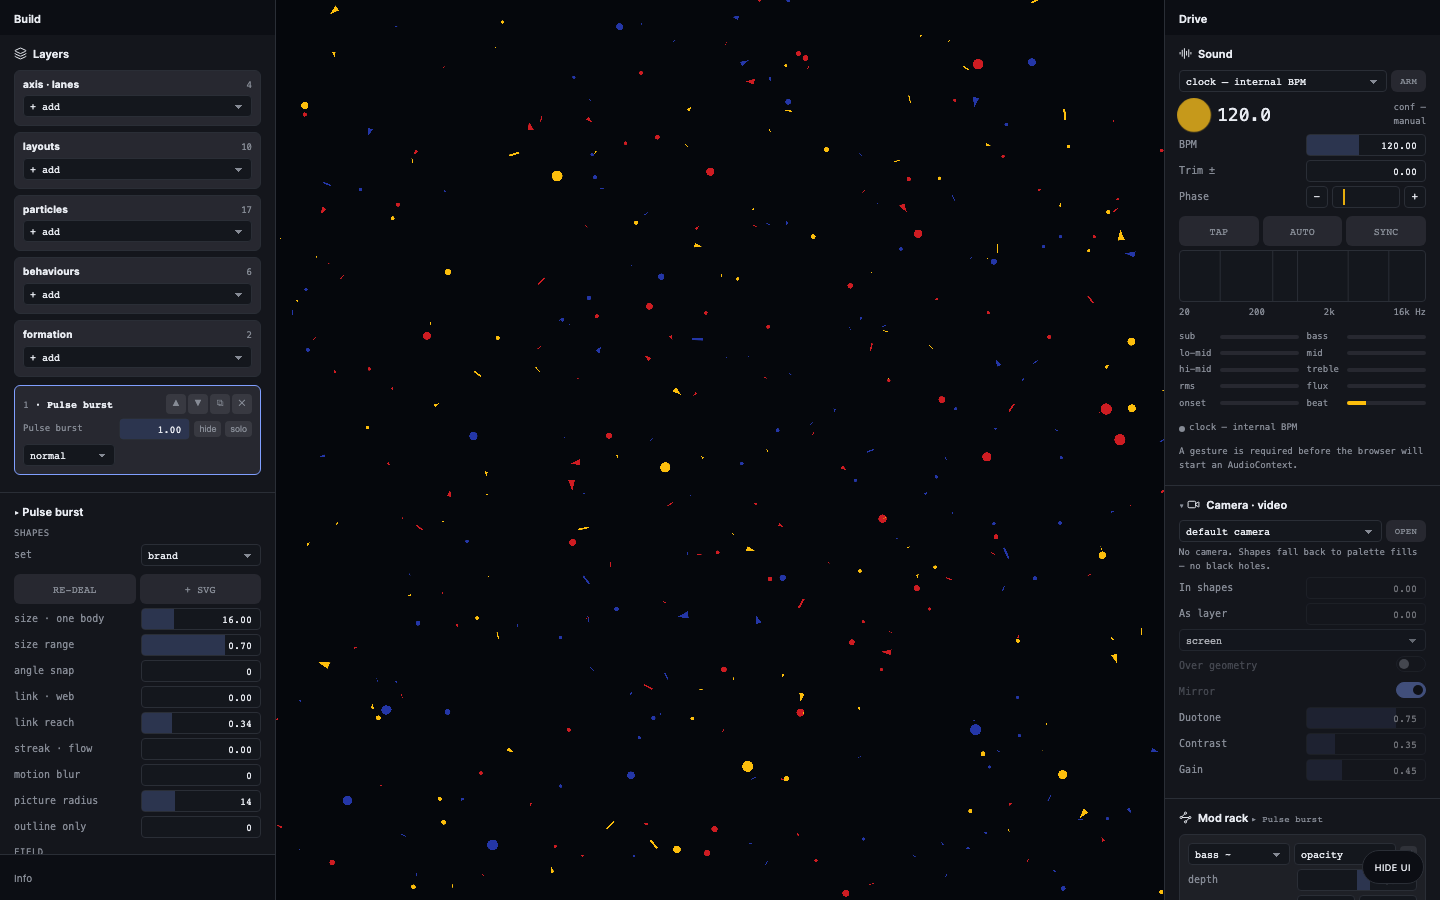
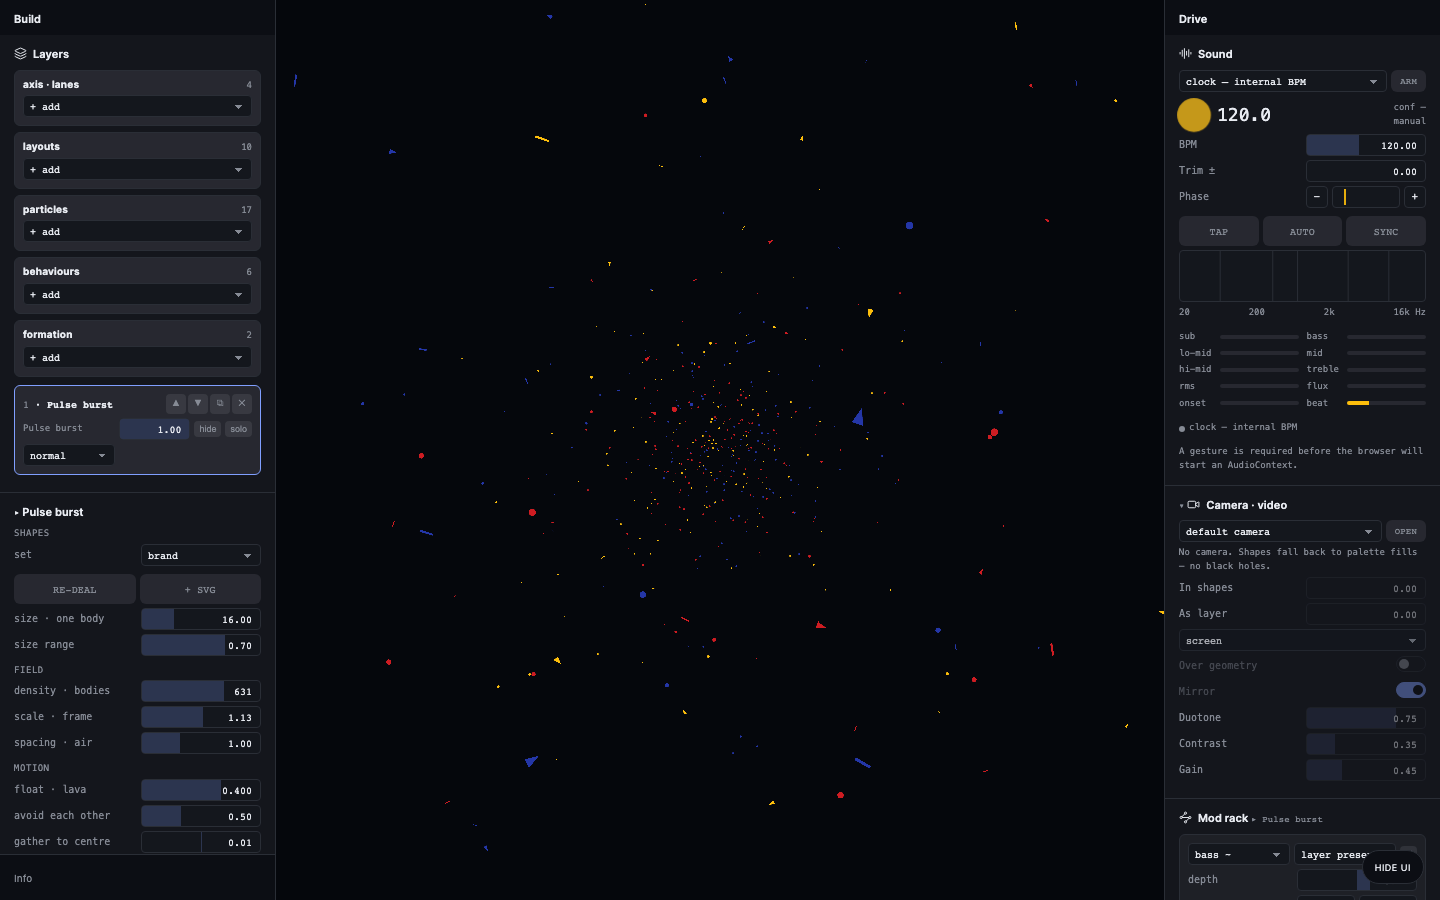
Ракурс и три строки маппинга Роба стали дефолтом

Changed region(s): [[0.0938, 0.7467, 0.1875, 0.9333], [0.0, 0.7467, 0.0625, 0.9644], [0.9062, 0.9333, 0.9375, 0.9644]]

diff --git a/index.html b/index.html
@@ -4906,18 +4906,23 @@ buildRamp(); buildStops(); rebuildPool(); rebuildTextures();
   Object.assign(L.phys,{ on:1, dim3:0, follow:2.2, collide:0.5, radius:0.13,
                          swirl:0.4, gravity:0.04, attract:0.01, flock:0.46, damp:0.93 });
   Object.assign(L.params,{ spread:1.85, dance:0.72, amplitude:1, frequency:1, twist:1, lanes:7 });
-  /* his framing: a slight tilt and turn, still orthographic — depth without warp */
-  Object.assign(state.cam,{ persp:0, zoom:1, tilt:-0.449, spin:0, yaw:0.272 });
-  /* the matrix he tuned: nothing moves in silence, everything answers the band it is on.
-     `size` on the fast bass envelope is the pulse; `dance` on flux is the build-up. */
+  /* his framing, 2026-07-19: «вот эта перспектива нам подходит». Depth is ON now (0.94),
+     the scene sits far back (zoom 0.2) and turns slowly by itself — the flat default was
+     the right base to build from, not the right place to stop. */
+  Object.assign(state.cam,{ persp:0.94, zoom:0.20, tilt:0.23, spin:0.095, yaw:0 });
+  /* ── the matrix he tuned, verbatim ────────────────────────────────────────
+     Rob, 2026-07-19: «вот этот подбор маппинга нам подходит. Тот маппинг, который ты
+     предлагал, это какая-то дёрганая херня, пожалуйста, больше её не предлагай».
+     Three rows, not seven. Mine drove size from a fast envelope AND collide AND follow AND
+     satDrift AND twist at once, so every band fought every other and the field never
+     settled into a phrase — that is what read as twitch.
+     His: the transient hits calibre and nothing else; the bass runs the figure's speed;
+     the mids turn it. One thing per band, and the two big depths are rates, not positions,
+     so they read as tempo rather than as a jump (see the integrated clock above). */
   L.matrix=[
-    { feat:'env.bassFast', path:'size',         mode:'bi', depth:0.30, curve:'exp'  },
-    { feat:'env.midSlow',  path:'phys.collide', mode:'up', depth:0.10, curve:'ease' },
-    { feat:'env.highSlow', path:'phys.follow',  mode:'up', depth:0.19, curve:'lin'  },
-    { feat:'band.bass',    path:'amplitude',    mode:'up', depth:0.15, curve:'lin'  },
-    { feat:'env.midFast',  path:'satDrift',     mode:'up', depth:0.54, curve:'lin'  },
-    { feat:'env.bassSlow', path:'twist',        mode:'up', depth:1.08, curve:'lin'  },
-    { feat:'flux',         path:'dance',        mode:'bi', depth:0.55, curve:'exp'  }
+    { feat:'onset',        path:'size',  mode:'bi', depth:1.11,  curve:'ease' },
+    { feat:'env.bassFast', path:'dance', mode:'up', depth:58.14, curve:'sqrt' },
+    { feat:'env.midFast',  path:'twist', mode:'bi', depth:23.45, curve:'ease' }
   ];
   rebuildLayer(L); renderLayers(); buildMatrix(); })();
 resize(); refreshDevices(); setArmState('idle');